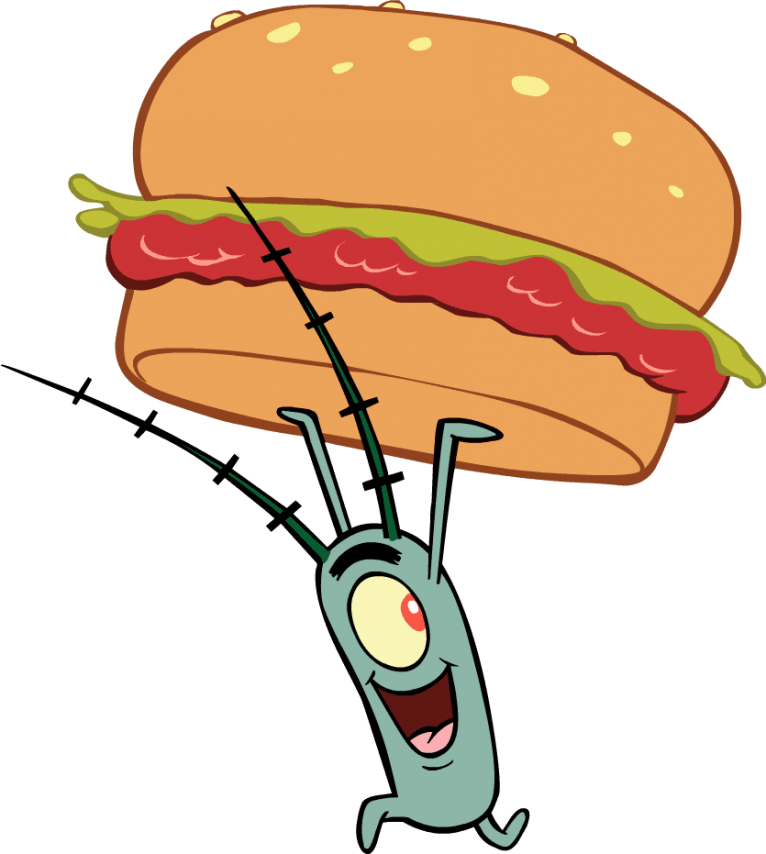
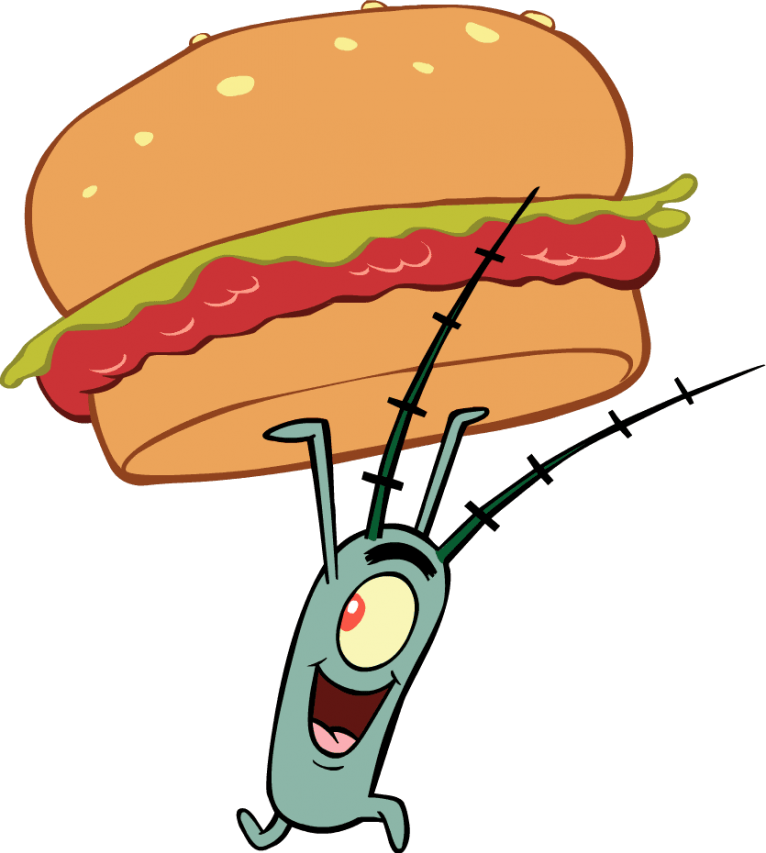
script linked

diff --git a/index.html b/index.html
@@ -48,13 +48,13 @@
         </section>
         <div id="characterContainer">
             <div id="gridContainer3">
-                <img id="sandyImage" src="images/plankton.png">
-                <img id="patrickImage" src="images/plankton.png">
-                <img id="squidwardImage" src="images/plankton.png">
-                <img id="krabsImage" src="images/plankton.png">
-                <img id="spongebobImage" src="images/plankton.png">
-                <img id="planktonImage" src="images/plankton.png">
-                <img id="garyImage" src="images/plankton.png">
+                <img id="sandyImage" src="images/sandy.png">
+                <img id="patrickImage" src="images/patrick.png">
+                <img id="squidwardImage" src="images/squidward.png">
+                <img id="krabsImage" src="images/mrkrabs.png">
+                <img id="spongebobImage" src="images/spongebob.png">
+                <img id="planktonImage" src="images/planktonWithBurger.png">
+                <img id="garyImage" src="images/gary.png">
             </div>
         </div>
 
@@ -144,7 +144,7 @@
             </div>
             <div class="column" id="suggestionHeader">
                 <legend>Submit Suggestion</legend>
-                <form id="contactForm" name="contact" method="POST" onsubmit="success()" data-netlify="true">
+                <form id="contactForm" name="contact" method="POST" onsubmit="success();return false" data-netlify="true">
                     <p>
                         <input type="text" placeholder="name" name="name" required minlength="2" maxlength="12"/>
                     </p>

diff --git a/homeCSS.css b/homeCSS.css
@@ -73,32 +73,48 @@ header {
 /** Character images **/
 #characterContainer {
     grid-area: characterImages;
-    border: 1px solid;
+    margin-bottom: -70px;
+    margin-top: -60px;
 }
 #gridContainer3{
     display: grid;
-    grid-template-columns: auto auto auto auto auto auto auto; 
+    grid-template-columns: 0.25fr 0.25fr 0.25fr 0.25fr 0.25fr 0.25fr 0.25fr; 
+    grid-column-gap: 50px;
 }
 #sandyImage{
-    width: 70px;
+    align-self: end;
+    width: 85px;
+    border: 1px solid;
 }
 #patrickImage{
-    width: 70px;
+    align-self: end;
+    width: 85px;
+    border: 1px solid;
 }
 #squidwardImage{
-    width: 70px;
+    align-self: end;
+    width: 50px;
+    border: 1px solid;
 }
 #krabsImage{
-    width: 70px;
+    align-self: end;
+    width: 85px;
+    border: 1px solid;
 }
 #spongebobImage{
-    width: 70px;
+    align-self: end;
+    width: 85px;
+    border: 1px solid;
 }
 #planktonImage {
-    width: 70px;
+    align-self: end;
+    width: 85px;
+    border: 1px solid;
 }
 #garyImage{
-    width: 70px;
+    align-self: end;
+    width: 85px;
+    border: 1px solid;
 }
 
 /** GALLERY **/
@@ -195,7 +211,7 @@ img {
 
 #contactForm {
     border: 3px solid white;
-    border-radius: 10px 30px 10px 30px;
+    border-radius: 20px 20px 20px 20px;
     width: fit-content;
     padding: 20px;
     margin: auto;

diff --git a/scripts.js b/scripts.js
@@ -1,8 +1,7 @@
 function success() {
 Swal.fire(
-    'Good job!',
-    'You clicked the button!',
+    'Success!',
+    'Thank you for your submission!',
     'success'
-  )
-    
+  )  
 }
